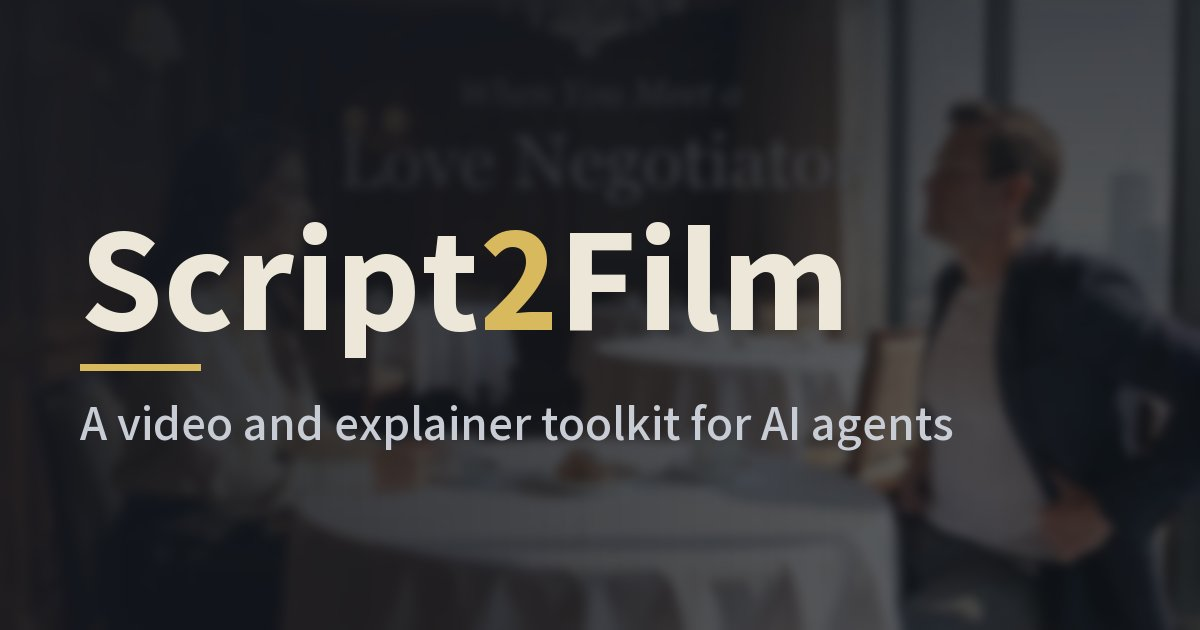
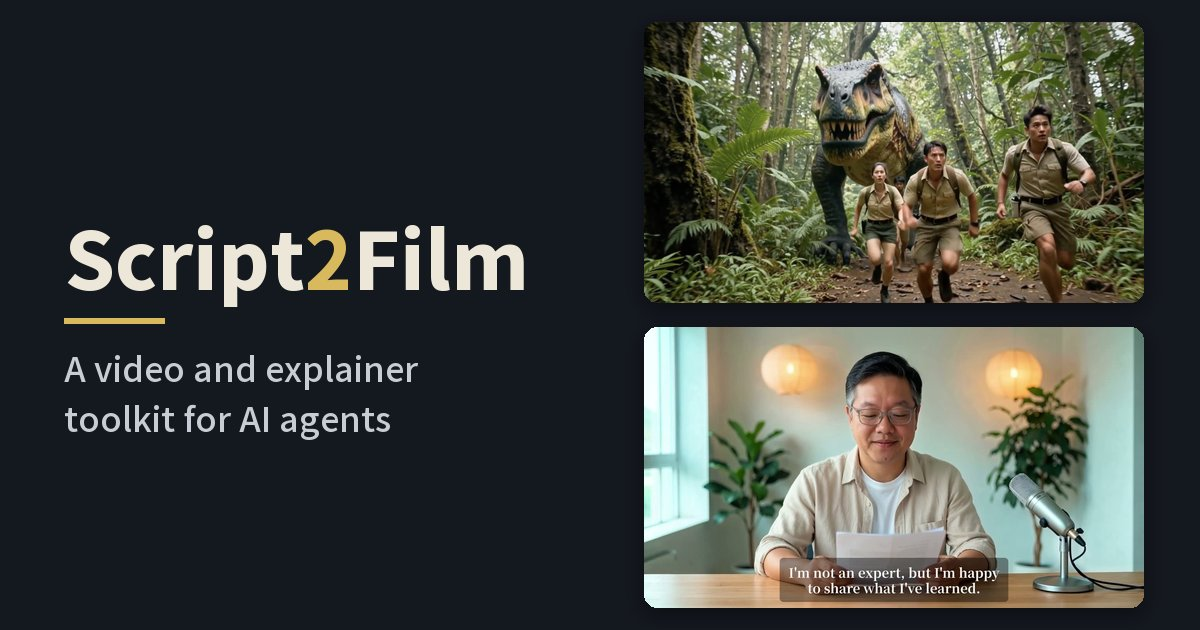
Share previews: a Chinese image with daily devotional frames, an English one with Dino park and the host

diff --git a/docs/gallery.html b/docs/gallery.html
@@ -18,10 +18,10 @@
   <meta property="og:url" content="https://notoriouslab.github.io/script2film/gallery.html">
   <meta property="og:locale" content="zh_TW">
   <meta property="og:locale:alternate" content="en_US">
-  <meta property="og:image" content="https://notoriouslab.github.io/script2film/site/og.jpg">
+  <meta property="og:image" content="https://notoriouslab.github.io/script2film/site/og-zh.jpg">
   <meta property="og:image:width" content="1200">
   <meta property="og:image:height" content="630">
-  <meta property="og:image:alt" content="Script2Film 字樣，底圖是用這套工具做的一支短劇的畫面">
+  <meta property="og:image:alt" content="Script2Film 字樣與「給 AI agent 用的影片與解說片工具組」，旁邊是兩格每日得力一分鐘的成片畫面">
   <meta name="twitter:card" content="summary_large_image">
   <!-- /share preview -->
   <link rel="stylesheet" href="site/site.css">

diff --git a/docs/studio.html b/docs/studio.html
@@ -19,10 +19,10 @@
   <meta property="og:url" content="https://notoriouslab.github.io/script2film/studio.html">
   <meta property="og:locale" content="zh_TW">
   <meta property="og:locale:alternate" content="en_US">
-  <meta property="og:image" content="https://notoriouslab.github.io/script2film/site/og.jpg">
+  <meta property="og:image" content="https://notoriouslab.github.io/script2film/site/og-zh.jpg">
   <meta property="og:image:width" content="1200">
   <meta property="og:image:height" content="630">
-  <meta property="og:image:alt" content="Script2Film 字樣，底圖是用這套工具做的一支短劇的畫面">
+  <meta property="og:image:alt" content="Script2Film 字樣與「給 AI agent 用的影片與解說片工具組」，旁邊是兩格每日得力一分鐘的成片畫面">
   <meta name="twitter:card" content="summary_large_image">
   <!-- /share preview -->
   <link rel="stylesheet" href="site/site.css">

diff --git a/docs/tools.html b/docs/tools.html
@@ -19,10 +19,10 @@
   <meta property="og:url" content="https://notoriouslab.github.io/script2film/tools.html">
   <meta property="og:locale" content="zh_TW">
   <meta property="og:locale:alternate" content="en_US">
-  <meta property="og:image" content="https://notoriouslab.github.io/script2film/site/og.jpg">
+  <meta property="og:image" content="https://notoriouslab.github.io/script2film/site/og-zh.jpg">
   <meta property="og:image:width" content="1200">
   <meta property="og:image:height" content="630">
-  <meta property="og:image:alt" content="Script2Film 字樣，底圖是用這套工具做的一支短劇的畫面">
+  <meta property="og:image:alt" content="Script2Film 字樣與「給 AI agent 用的影片與解說片工具組」，旁邊是兩格每日得力一分鐘的成片畫面">
   <meta name="twitter:card" content="summary_large_image">
   <!-- /share preview -->
   <link rel="stylesheet" href="site/site.css">

diff --git a/docs/index.html b/docs/index.html
@@ -18,10 +18,10 @@
   <meta property="og:url" content="https://notoriouslab.github.io/script2film/">
   <meta property="og:locale" content="zh_TW">
   <meta property="og:locale:alternate" content="en_US">
-  <meta property="og:image" content="https://notoriouslab.github.io/script2film/site/og.jpg">
+  <meta property="og:image" content="https://notoriouslab.github.io/script2film/site/og-zh.jpg">
   <meta property="og:image:width" content="1200">
   <meta property="og:image:height" content="630">
-  <meta property="og:image:alt" content="Script2Film 字樣，底圖是用這套工具做的一支短劇的畫面">
+  <meta property="og:image:alt" content="Script2Film 字樣與「給 AI agent 用的影片與解說片工具組」，旁邊是兩格每日得力一分鐘的成片畫面">
   <meta name="twitter:card" content="summary_large_image">
   <!-- /share preview -->
   <link rel="stylesheet" href="site/site.css">

diff --git a/docs/en/gallery.html b/docs/en/gallery.html
@@ -21,7 +21,7 @@
   <meta property="og:image" content="https://notoriouslab.github.io/script2film/site/og.jpg">
   <meta property="og:image:width" content="1200">
   <meta property="og:image:height" content="630">
-  <meta property="og:image:alt" content="The Script2Film name over a frame from a short drama made with it">
+  <meta property="og:image:alt" content="The Script2Film name beside two frames from films: a dinosaur chasing explorers, and a host with English subtitles">
   <meta name="twitter:card" content="summary_large_image">
   <!-- /share preview -->
   <link rel="stylesheet" href="../site/site.css">

diff --git a/docs/en/index.html b/docs/en/index.html
@@ -21,7 +21,7 @@
   <meta property="og:image" content="https://notoriouslab.github.io/script2film/site/og.jpg">
   <meta property="og:image:width" content="1200">
   <meta property="og:image:height" content="630">
-  <meta property="og:image:alt" content="The Script2Film name over a frame from a short drama made with it">
+  <meta property="og:image:alt" content="The Script2Film name beside two frames from films: a dinosaur chasing explorers, and a host with English subtitles">
   <meta name="twitter:card" content="summary_large_image">
   <!-- /share preview -->
   <link rel="stylesheet" href="../site/site.css">

diff --git a/docs/en/studio.html b/docs/en/studio.html
@@ -22,7 +22,7 @@
   <meta property="og:image" content="https://notoriouslab.github.io/script2film/site/og.jpg">
   <meta property="og:image:width" content="1200">
   <meta property="og:image:height" content="630">
-  <meta property="og:image:alt" content="The Script2Film name over a frame from a short drama made with it">
+  <meta property="og:image:alt" content="The Script2Film name beside two frames from films: a dinosaur chasing explorers, and a host with English subtitles">
   <meta name="twitter:card" content="summary_large_image">
   <!-- /share preview -->
   <link rel="stylesheet" href="../site/site.css">

diff --git a/docs/en/tools.html b/docs/en/tools.html
@@ -22,7 +22,7 @@
   <meta property="og:image" content="https://notoriouslab.github.io/script2film/site/og.jpg">
   <meta property="og:image:width" content="1200">
   <meta property="og:image:height" content="630">
-  <meta property="og:image:alt" content="The Script2Film name over a frame from a short drama made with it">
+  <meta property="og:image:alt" content="The Script2Film name beside two frames from films: a dinosaur chasing explorers, and a host with English subtitles">
   <meta name="twitter:card" content="summary_large_image">
   <!-- /share preview -->
   <link rel="stylesheet" href="../site/site.css">

diff --git a/tools/site/make_og.py b/tools/site/make_og.py
@@ -1,10 +1,18 @@
-"""Makes the share-preview image docs/site/og.jpg (1200×630), used by every page's og:image.
+"""Makes the share-preview images (1200×630): docs/site/og-zh.jpg for the Chinese pages, docs/site/og.jpg for the
+English ones (og_tags.py writes each page's og:image from site_config.OG_IMAGE).
 
   python3 tools/site/make_og.py [--font path/to/NotoSansTC-Variable.ttf]
 
-Run it only when the image should change; it is not part of the regular site build (build_en.py). The background is
-docs/site/hero-poster.jpg, cropped to 1200×630, blurred and darkened toward the site's dark background; on top,
-"Script2Film" in large type (the "2" in the site's gold, as in the page header) and the English home page's subtitle below it.
+Run it only when the images should change; it is not part of the regular site build (build_en.py).
+Layout: "Script2Film" on the left (the "2" in the site's gold, as in the page header), the home page's subtitle in two
+lines below it, and frames from films on the right, each with rounded corners and a soft shadow.
+  zh: the cream of the daily devotional films, two portrait frames from them (December's opening, a January background).
+     The Chinese audience is mostly churches and friends who know that series.
+  en: the site's dark background, a frame from the opening of Dino park above the host with English subtitles
+     (docs/site/host-full.jpg). The English audience is mostly people who work in tech and AI.
+The frames are kept in tools/site/og_src/ (devotional-*.png were cut from the blog post's month-by-month figure,
+dino-park.jpg is a full-resolution screenshot of the opening of Dino park, cropped to 16:9; a frame cut from
+docs/site/studio-hero.mp4 is too soft).
 The font is Noto Sans TC from assets/fonts/ (see docs/INSTALL.md); it is read, not copied. Same input, same output.
 """
 import sys as _sys, pathlib as _pl   # 設定檔：tools/config/s2f_config.py
@@ -18,13 +26,17 @@ sys.path.insert(0, str(pathlib.Path(__file__).resolve().parent))
 from site_config import OG_IMAGE, OG_IMAGE_SIZE  # noqa: E402
 
 ROOT = pathlib.Path(__file__).resolve().parents[2]
-SRC = ROOT / "docs" / "site" / "hero-poster.jpg"
-DST = ROOT / "docs" / OG_IMAGE
-SUBTITLE = "A video and explainer toolkit for AI agents"   # docs/en/index.html, the hero's <p class="sub">
-BG = (20, 24, 31)        # site.css dark --bg  #14181f
-FG = (236, 231, 216)     # site.css dark --fg  #ece7d8
+SRC = ROOT / "tools" / "site" / "og_src"
 GOLD = (216, 185, 94)    # site.css dark --gold #d8b95e
-MUTED = (200, 204, 212)
+LOOK = {
+    "zh": {"bg": (242, 238, 224), "fg": (31, 74, 66), "sub": (90, 96, 92),          # the devotional films' cream
+           "lines": ("給 AI agent 用的", "影片與解說片工具組"),                       # docs/index.html hero subtitle
+           "frames": [SRC / "devotional-december.png", SRC / "devotional-january.png"], "side": "row", "h": 470},
+    "en": {"bg": (20, 24, 31), "fg": (236, 231, 216), "sub": (200, 204, 212),       # site.css dark --bg, --fg
+           "lines": ("A video and explainer", "toolkit for AI agents"),             # docs/en/index.html hero subtitle
+           "frames": [SRC / "dino-park.jpg", ROOT / "docs" / "site" / "host-full.jpg"], "side": "column", "w": 500},
+}
+RIGHT, GAP, RADIUS = 56, 24, 13
 
 
 def font(path, size, weight):
@@ -33,39 +45,63 @@ def font(path, size, weight):
     return f
 
 
-def make(font_path):
+def place(im, frame, x, y):
+    """Paste a frame with rounded corners over a soft drop shadow."""
+    w, h = frame.size
+    shadow = Image.new("L", (w + 40, h + 40))
+    ImageDraw.Draw(shadow).rounded_rectangle((20, 26, w + 19, h + 25), RADIUS, fill=115)
+    im.paste((0, 0, 0), (x - 20, y - 20), shadow.filter(ImageFilter.GaussianBlur(10)))
+    mask = Image.new("L", (w, h))
+    ImageDraw.Draw(mask).rounded_rectangle((0, 0, w - 1, h - 1), RADIUS, fill=255)
+    im.paste(frame, (x, y), mask)
+
+
+def make(font_path, lang):
     W, H = OG_IMAGE_SIZE
-    im = Image.open(SRC).convert("RGB")
-    s = max(W / im.width, H / im.height)
-    im = im.resize((round(im.width * s), round(im.height * s)), Image.LANCZOS)
-    x, y = (im.width - W) // 2, (im.height - H) // 2
-    im = im.crop((x, y, x + W, y + H))
-    # soften and darken so the frame's own lettering does not compete: blur, then a veil that is
-    # heaviest on the left (where the text sits) and over the top half
-    im = im.filter(ImageFilter.GaussianBlur(5))
-    veil = Image.new("RGB", (W, H), BG)
-    mask = Image.new("L", (W, H))
-    mask.putdata([min(240, round(175 + 55 * max(0.0, 1 - i / (W * 0.85)) + 30 * max(0.0, 1 - j / (H * 0.55))))
-                  for j in range(H) for i in range(W)])
-    im = Image.composite(veil, im, mask)
+    L = LOOK[lang]
+    im = Image.new("RGB", (W, H), L["bg"])
+    frames = [Image.open(f).convert("RGB") for f in L["frames"]]
+    if L["side"] == "row":       # portrait frames side by side, all the same height
+        fh = L["h"]
+        frames = [f.resize((round(f.width * fh / f.height), fh), Image.LANCZOS) for f in frames]
+        x = W - RIGHT - sum(f.width for f in frames) - GAP * (len(frames) - 1)
+        left_edge, y = x, (H - fh) // 2
+        for f in frames:
+            place(im, f, x, y)
+            x += f.width + GAP
+        top, bottom = y, y + fh
+    else:                        # landscape frames stacked, all the same width
+        fw = L["w"]
+        frames = [f.resize((fw, round(f.height * fw / f.width)), Image.LANCZOS) for f in frames]
+        left_edge = x = W - RIGHT - fw
+        top = y = (H - sum(f.height for f in frames) - GAP * (len(frames) - 1)) // 2
+        for f in frames:
+            place(im, f, x, y)
+            y += f.height + GAP
+        bottom = y - GAP
+    assert top >= 0 and bottom <= H and left_edge > 0, "frames run off the image"
     d = ImageDraw.Draw(im)
-    big, sub = font(font_path, 132, 800), font(font_path, 44, 500)
-    left, base = 80, 330
-    parts = [("Script", FG), ("2", GOLD), ("Film", FG)]
+    big, sub = font(font_path, 80, 800), font(font_path, 34, 500)
+    left, base = 64, 290
     cx = left
-    for text, col in parts:
+    for text, col in (("Script", L["fg"]), ("2", GOLD), ("Film", L["fg"])):
         d.text((cx, base), text, font=big, fill=col, anchor="ls")
         cx += d.textlength(text, font=big)
-    d.rectangle((left, base + 34, left + 120, base + 40), fill=GOLD)
-    d.text((left, base + 110), SUBTITLE, font=sub, fill=MUTED, anchor="ls")
-    assert cx < W - 40 and left + d.textlength(SUBTITLE, font=sub) < W - 40, "text runs off the image"
-    DST.parent.mkdir(parents=True, exist_ok=True)
-    im.save(DST, "JPEG", quality=85, optimize=True)
-    return DST
+    d.rectangle((left, base + 28, left + 100, base + 33), fill=GOLD)
+    for k, line in enumerate(L["lines"]):
+        d.text((left, base + 92 + 50 * k), line, font=sub, fill=L["sub"], anchor="ls")
+    widest = max([cx] + [left + d.textlength(t, font=sub) for t in L["lines"]])
+    assert widest < left_edge - 20, "the words run into the frames"
+    dst = ROOT / "docs" / OG_IMAGE[lang]
+    dst.parent.mkdir(parents=True, exist_ok=True)
+    im.save(dst, "JPEG", quality=85, optimize=True)
+    return dst
 
 
 if __name__ == "__main__":
     ap = argparse.ArgumentParser()
     ap.add_argument("--font", default=str(ROOT / "assets" / "fonts" / "NotoSansTC-Variable.ttf"))
-    out = make(ap.parse_args().font)
-    print(f"{out.relative_to(ROOT)}: {Image.open(out).size}, {out.stat().st_size // 1024} KB")
+    a = ap.parse_args()
+    for lang in ("zh", "en"):
+        out = make(a.font, lang)
+        print(f"{out.relative_to(ROOT)}: {Image.open(out).size}, {out.stat().st_size // 1024} KB")

diff --git a/tools/site/og_tags.py b/tools/site/og_tags.py
@@ -21,8 +21,8 @@ BEGIN = "<!-- share preview: written by tools/site/og_tags.py -->"
 END = "<!-- /share preview -->"
 LOCALE = {"zh": "zh_TW", "en": "en_US"}
 HREFLANG = {"zh": "zh-Hant", "en": "en"}
-IMAGE_ALT = {"zh": "Script2Film 字樣，底圖是用這套工具做的一支短劇的畫面",
-             "en": "The Script2Film name over a frame from a short drama made with it"}
+IMAGE_ALT = {"zh": "Script2Film 字樣與「給 AI agent 用的影片與解說片工具組」，旁邊是兩格每日得力一分鐘的成片畫面",
+             "en": "The Script2Film name beside two frames from films: a dinosaur chasing explorers, and a host with English subtitles"}
 BLOCK_RX = re.compile(r"\n[ \t]*" + re.escape(BEGIN) + r".*?" + re.escape(END), re.S)
 
 
@@ -63,7 +63,7 @@ def block(text, page, lang, indent="  "):
         f'<meta property="og:url" content="{page_url(page, lang)}">',
         f'<meta property="og:locale" content="{LOCALE[lang]}">',
         f'<meta property="og:locale:alternate" content="{LOCALE[other]}">',
-        f'<meta property="og:image" content="{BASE_URL + OG_IMAGE}">',
+        f'<meta property="og:image" content="{BASE_URL + OG_IMAGE[lang]}">',
         f'<meta property="og:image:width" content="{w}">',
         f'<meta property="og:image:height" content="{h}">',
         f'<meta property="og:image:alt" content="{_attr(IMAGE_ALT[lang])}">',

diff --git a/tools/site/tests/test_site_share_tags.py b/tools/site/tests/test_site_share_tags.py
@@ -62,11 +62,19 @@ def test_share_urls_start_with_base_url_and_image_exists(page, lang):
         assert (DOCS / (rel + "index.html" if rel == "" or rel.endswith("/") else rel)).is_file(), u
 
 
-def test_og_image_size():
+@pytest.mark.parametrize("lang", ["zh", "en"])
+def test_og_image_size(lang):
     from PIL import Image
-    f = DOCS / "site" / "og.jpg"
+    from site_config import OG_IMAGE
+    f = DOCS / OG_IMAGE[lang]
     assert Image.open(f).size == OG_IMAGE_SIZE
     assert f.stat().st_size < 300 * 1024
+
+
+@pytest.mark.parametrize("page,lang", CASES)
+def test_each_language_shares_its_own_image(page, lang):
+    from site_config import OG_IMAGE
+    assert meta(head(page, lang), "og:image") == [BASE_URL + OG_IMAGE[lang]]
 
 
 @pytest.mark.parametrize("page,lang", CASES)

diff --git a/tools/site/site_config.py b/tools/site/site_config.py
@@ -5,6 +5,6 @@ og_tags.py builds every share-preview URL (og:url, og:image, canonical, hreflang
 """
 BASE_URL = "https://notoriouslab.github.io/script2film/"
 SITE_NAME = "Script2Film"
-OG_IMAGE = "site/og.jpg"          # relative to docs/; made by tools/site/make_og.py
+OG_IMAGE = {"zh": "site/og-zh.jpg", "en": "site/og.jpg"}   # relative to docs/; made by tools/site/make_og.py
 OG_IMAGE_SIZE = (1200, 630)
 PAGES = ("index", "gallery", "tools", "studio")   # docs/<page>.html and docs/en/<page>.html
